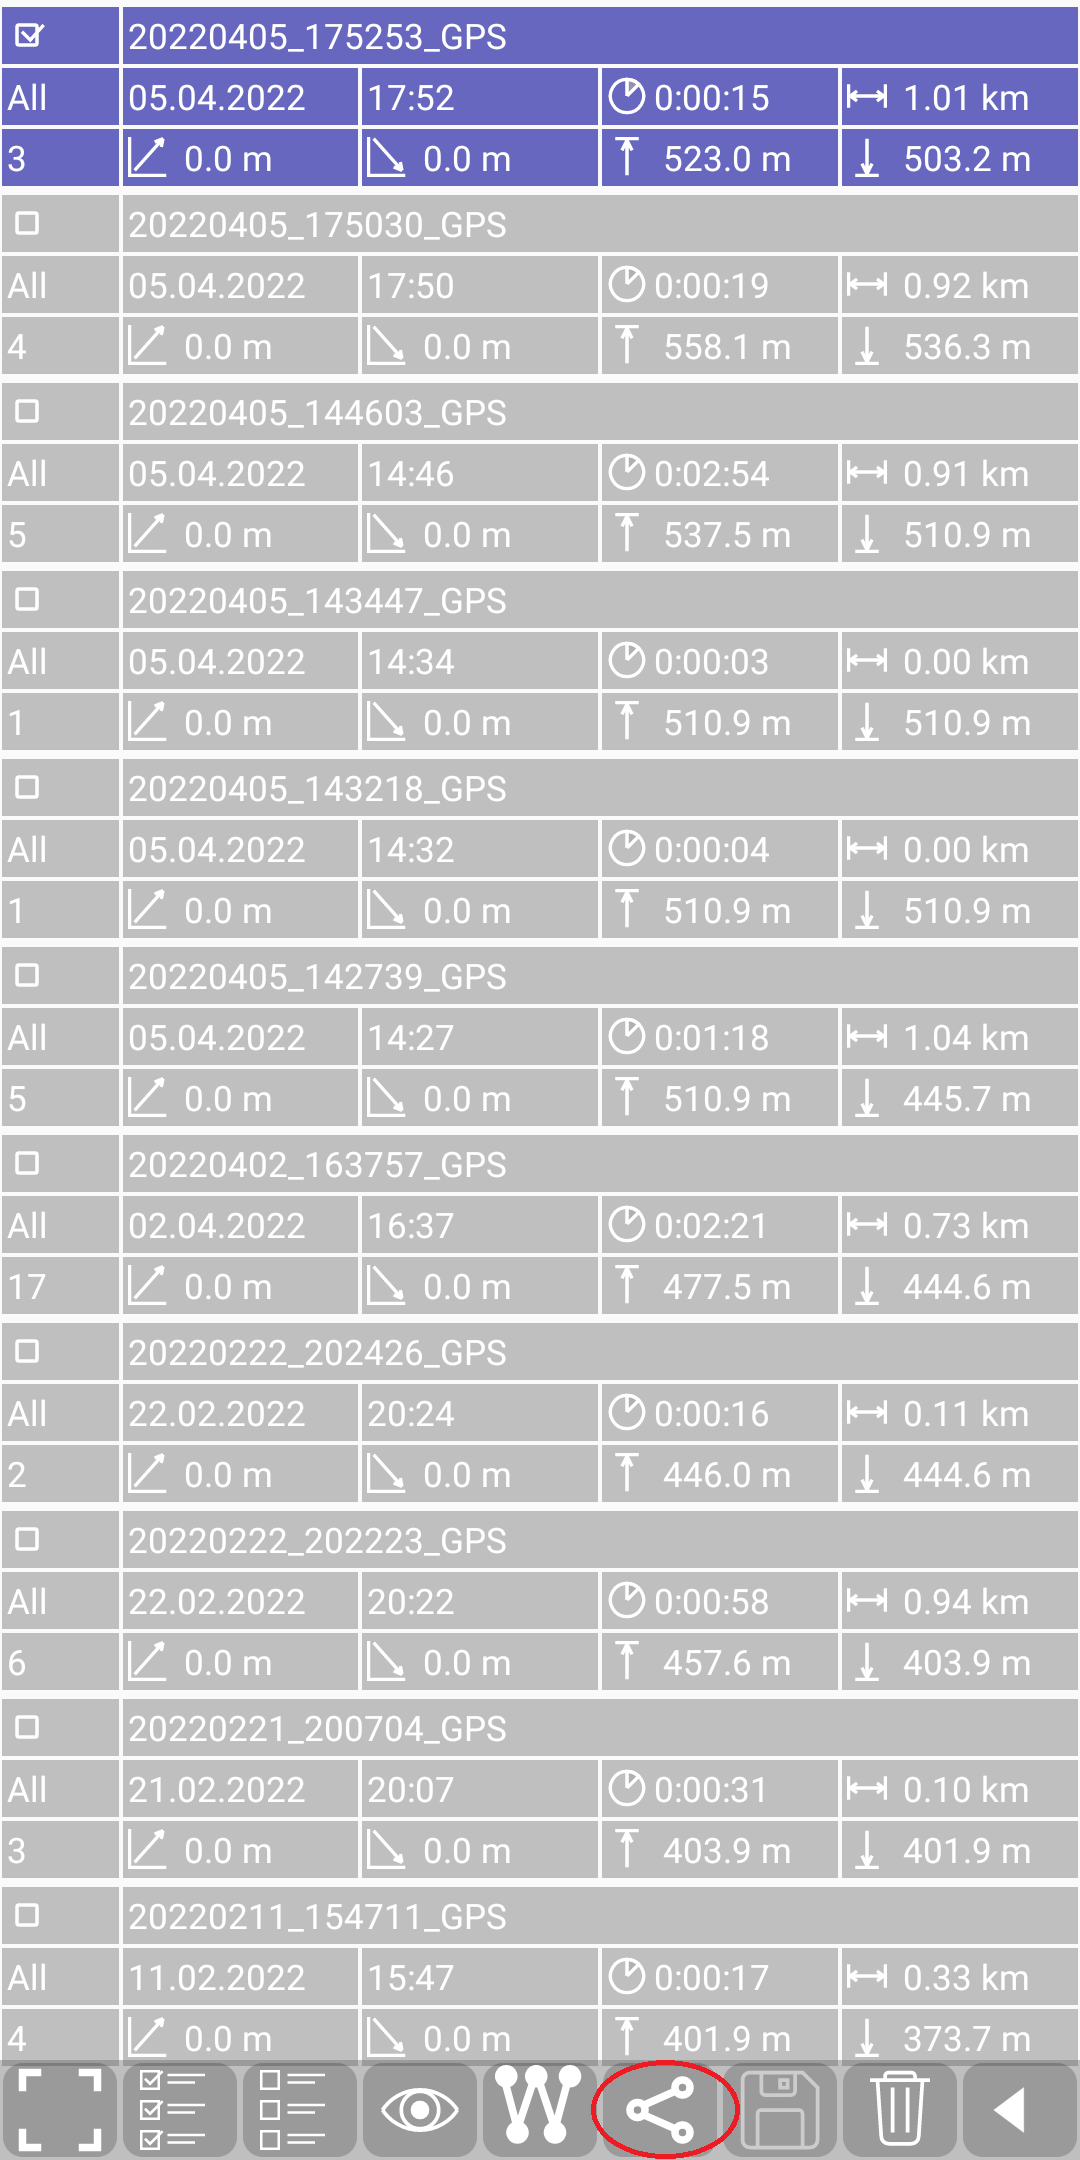
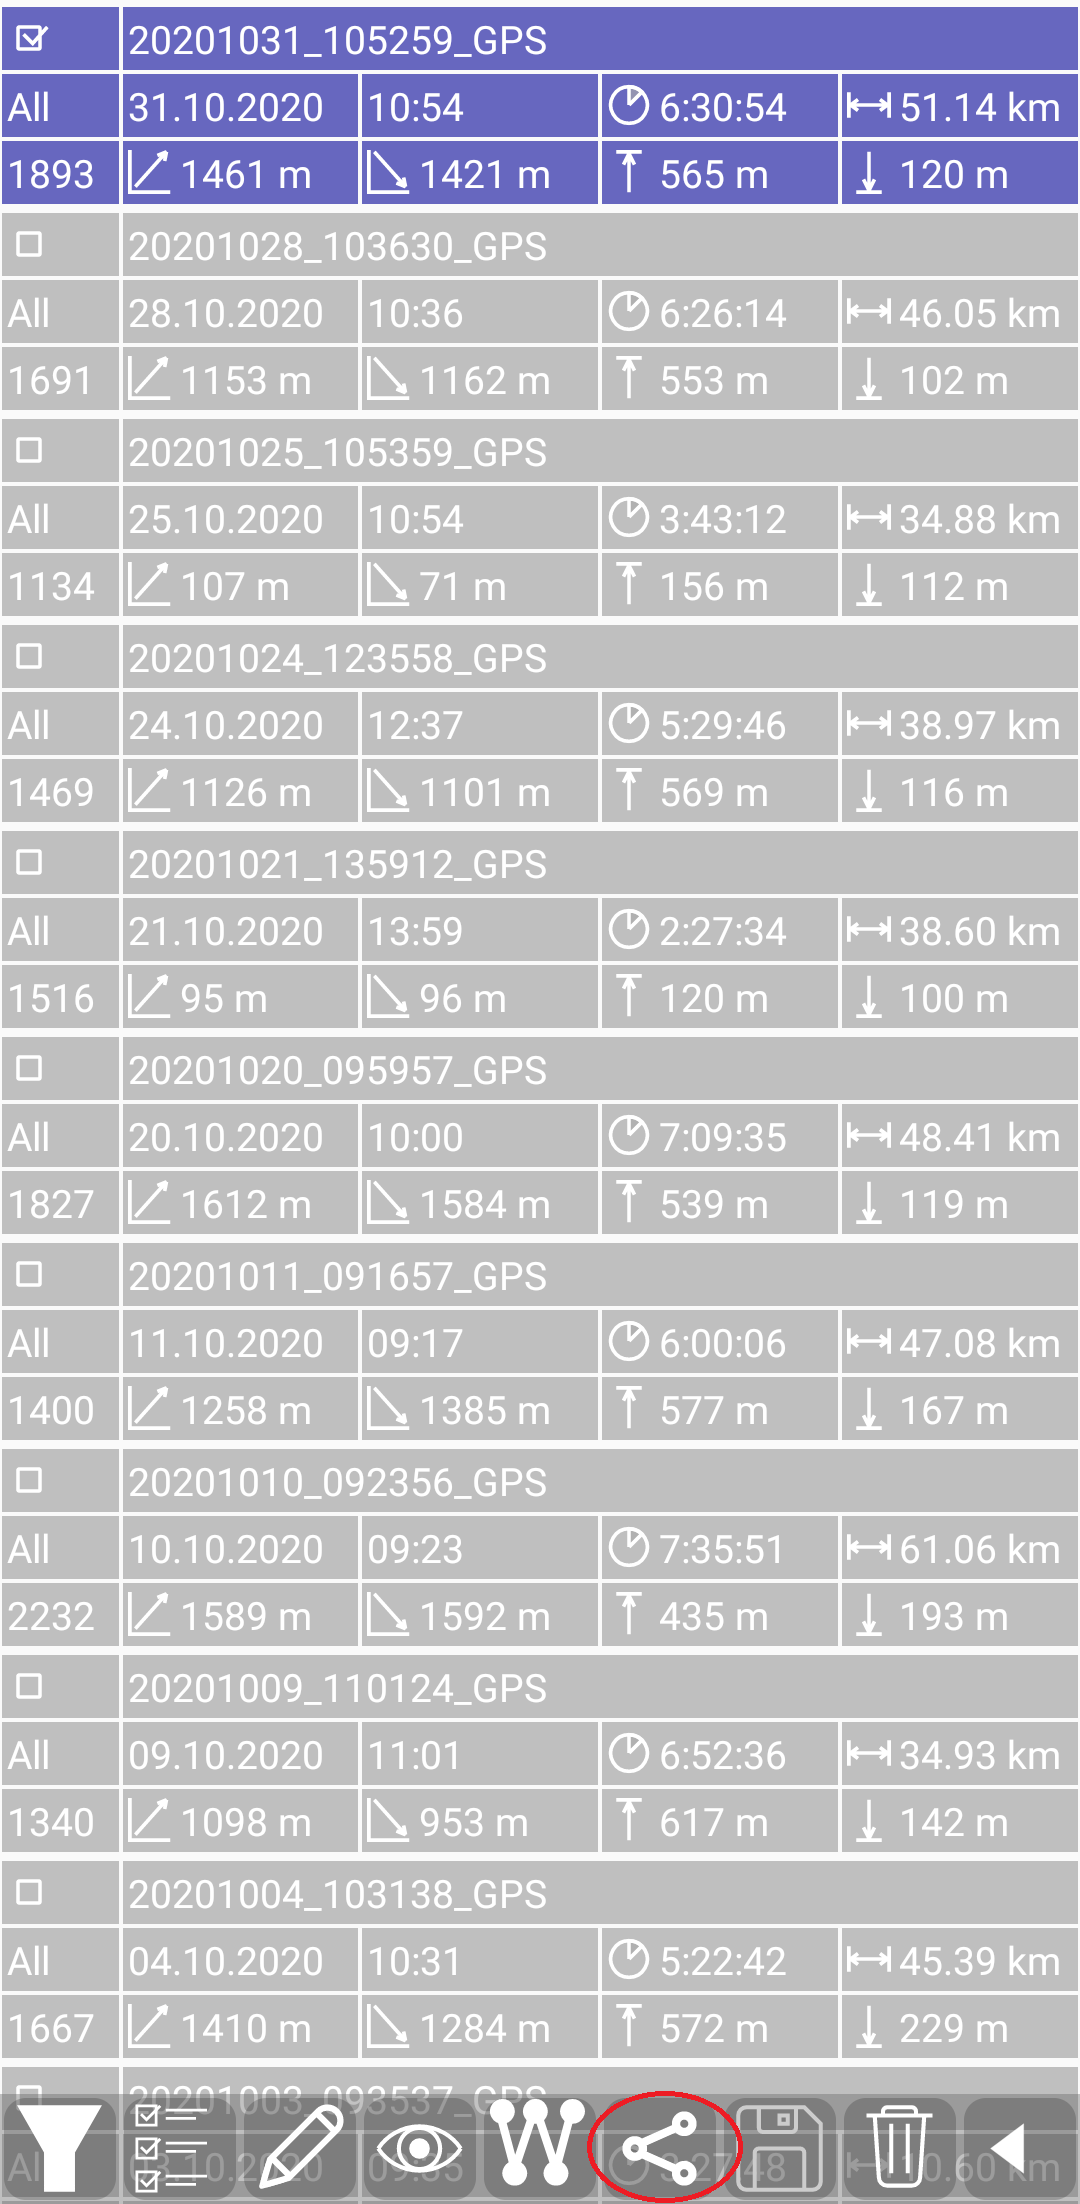
docs for edit tracjname and filter

Changed region(s): [[0.0, 0.0, 1.0, 1.0]]

diff --git a/docs/Features/FurtherFeatures/Statistic/statistic.md b/docs/Features/FurtherFeatures/Statistic/statistic.md
@@ -11,9 +11,9 @@ existing track objects. You can open it with
 The following figure shows an example of the statistic view - for the coloring see [here](../../track.md).
 Inside of a color group the entries are <a href="#sort">sorted (descending)</a> .
 
-<img src="./stat2.png" width="400" />&nbsp;
+<img src="./stat.png" width="400" />&nbsp;
 
-You can select/deselect an entry with a short tap on it.
+You can select/deselect an entry with a short tap on it. Selected entries have a stronger color and top-left square is checked.
 
 #### Statistic information (Entry)
 
@@ -27,9 +27,9 @@ Each statistic entry consists of three lines:
 
 <table style="font-size: x-small">
 <th width="6%" style="text-align:center; min-width:50px; max-width:50px"> </th>
-<th width="10%" style="text-align:center; min-width:64px; padding:2px"><img src="../../../icons/fullscreen.svg" width="60px" height="60px"></th>
-<th width="10%" style="text-align:center; min-width:64px; padding:2px"><img src="../../../icons/select_all.svg" width="60px" height="60px"></th>
-<th width="10%" style="text-align:center; min-width:64px; padding:2px"><img src="../../../icons/deselect_all.svg" width="60px" height="60px"></th>
+<th width="10%" style="text-align:center; min-width:64px; padding:2px"><img src="../../../icons/filter.svg" width="60px" height="60px"><br><img src="../../../icons/filter2.svg" width="60px" height="60px"></th>
+<th width="10%" style="text-align:center; min-width:64px; padding:2px"><img src="../../../icons/select_all.svg" width="60px" height="60px"><br><img src="../../../icons/deselect_all.svg" width="60px" height="60px"></th>
+<th width="10%" style="text-align:center; min-width:64px; padding:2px"><img src="../../../icons/edit2.svg" width="60px" height="60px"></th>
 <th width="10%" style="text-align:center; min-width:64px; padding:2px"><img src="../../../icons/show.svg" width="60px" height="60px"></th>
 <th width="10%" style="text-align:center; min-width:64px; padding:2px"><img src="../../../icons/mtlr.svg" width="60px" height="60px"></th>
 <th width="10%" style="text-align:center; min-width:64px; padding:2px"><img src="../../../icons/share.svg" width="60px" height="60px"></th>
@@ -40,9 +40,9 @@ Each statistic entry consists of three lines:
 
 <tr>
     <td style="text-align:center; min-width:50px; padding:2px">enabled condition</td>
-    <td style="text-align:center; min-width:64px; padding:2px">always</td>
-    <td style="text-align:center; min-width:64px; padding:2px">at least one entry is not selected</td>
-    <td style="text-align:center; min-width:64px; padding:2px">at least one entry is selected</td>
+    <td style="text-align:center; min-width:64px; padding:2px">always<br> 2nd icon,  if filter is on</td>
+    <td style="text-align:center; min-width:64px; padding:2px">always<br> 2nd icon, if all entries selected</td>
+    <td style="text-align:center; min-width:64px; padding:2px">exactly one entry is selected</td>
     <td style="text-align:center; min-width:64px; padding:2px">at least one entry is selected</td>
     <td style="text-align:center; min-width:64px; padding:2px">there is exactly one track selected and this is neither the MarkerTrackLog nor the RouteTrackLog</td>
     <td style="text-align:center; min-width:64px; padding:2px">there is at least one track selected and all selected tracks are stored persistent</td>
@@ -52,9 +52,9 @@ Each statistic entry consists of three lines:
 </tr>
 <tr>
     <td style="text-align:center; min-width:64px; padding:2px">action on tap</td>
-    <td style="text-align:center; min-width:64px; padding:2px">toggle fullscreen mode</td>
-    <td style="text-align:center; min-width:64px; padding:2px">select all entries</td>
-    <td style="text-align:center; min-width:64px; padding:2px">deselect all entries</td>
+    <td style="text-align:center; min-width:64px; padding:2px">toggle filter on/off</td>
+    <td style="text-align:center; min-width:64px; padding:2px">select/deselect all visible entries</td>
+    <td style="text-align:center; min-width:64px; padding:2px">edit track name</td>
     <td style="text-align:center; min-width:64px; padding:2px">view selected tracks</td>
     <td style="text-align:center; min-width:64px; padding:2px">open as marker track</td>
     <td style="text-align:center; min-width:64px; padding:2px">share tracks (Always the persistent gpx will be shared. Not yet saved changes are not included!)</td>
@@ -72,10 +72,6 @@ Basically the entries are sorted descending by date.
 But which date? ... and what about entries without timestamp?  
 Each TrackLog has a "nameKey" which consists of the date prefix followed by the name.
 The date will be taken from the main track statistic, which contains the gpx header timestamp (if available) or otherwise from the first point (if available).
-If no date at all is available, the "0" timestamp is taken, which corresponds to the 1.1.1970.
-
-With a double-click on an entry you can switch the name to the sort-name, and with a second double click back to the original name.
-
-
+If no date at all is available, the track date will be set to 02.01.2000.
 
 <small><small>[Back to Index](../../../index.md)</small></small>
